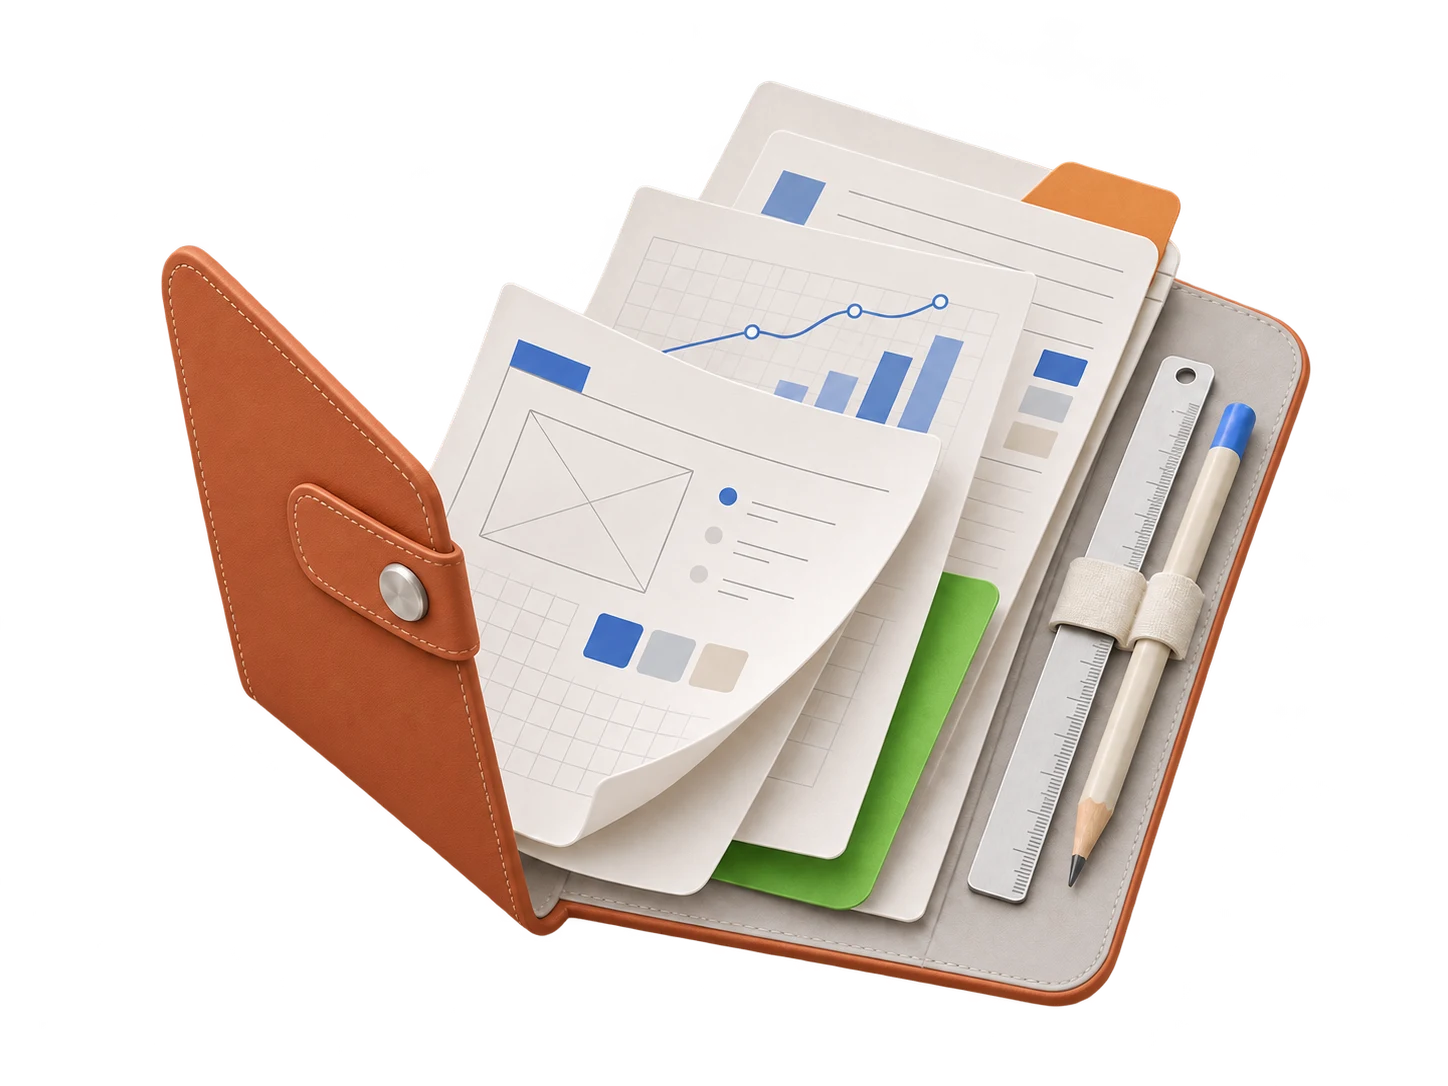
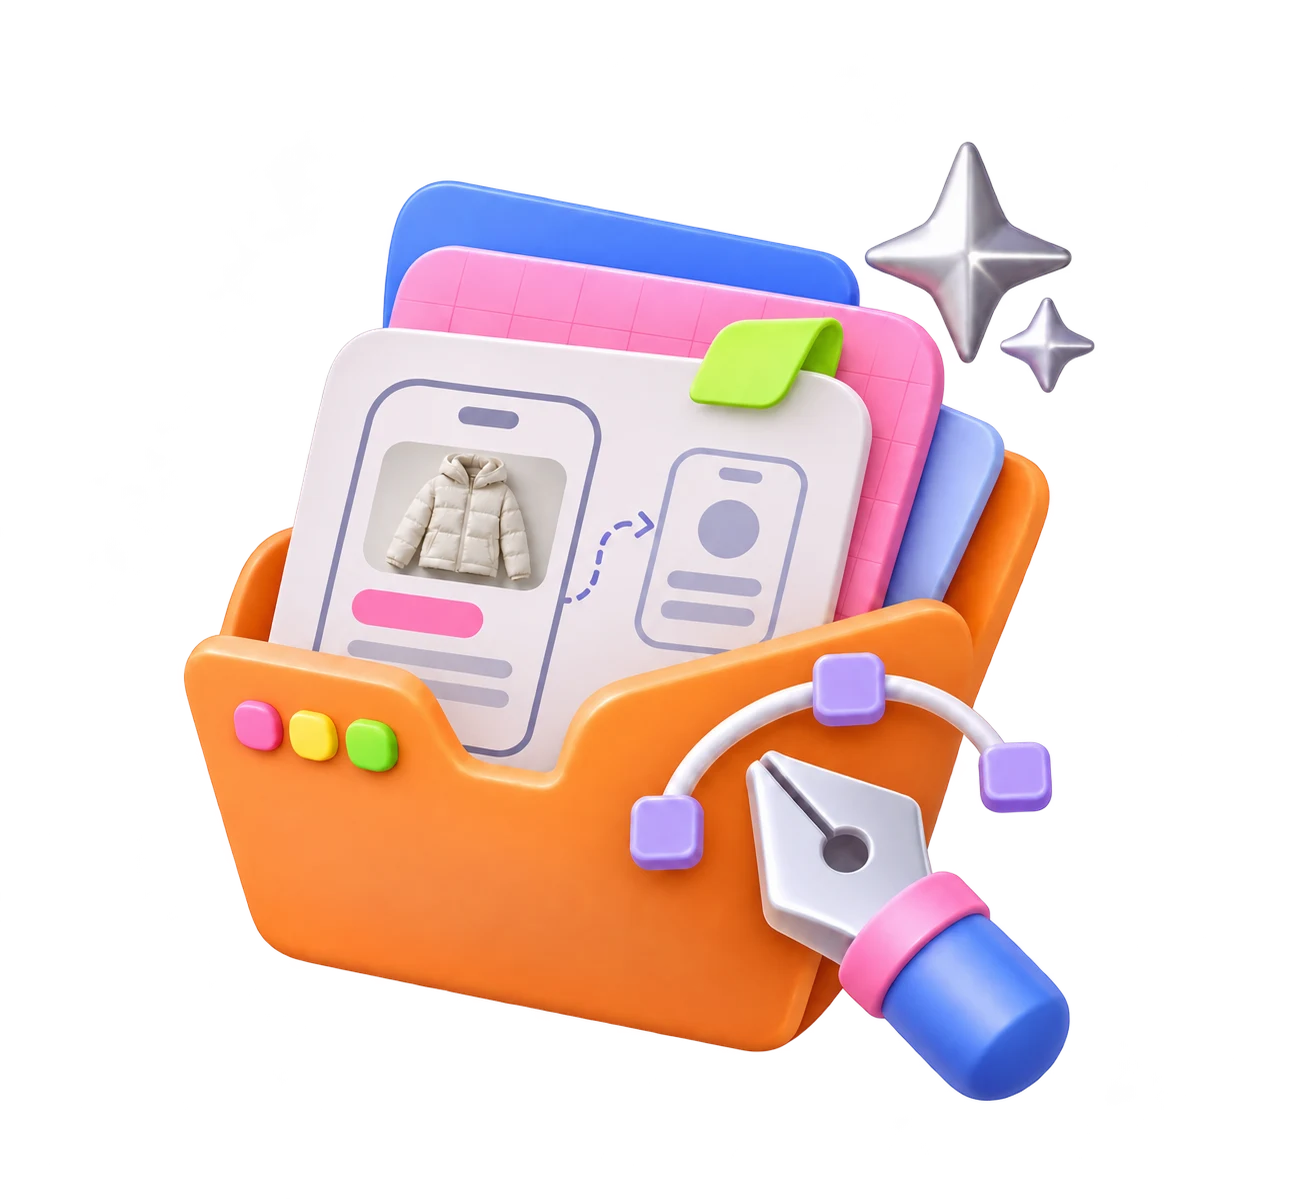
design(about): create illustrations from supplied references

diff --git a/client/src/components/AboutPage.tsx b/client/src/components/AboutPage.tsx
@@ -10,32 +10,32 @@ export default function AboutPage({ onNavigate }: AboutPageProps) {
   const copy = ru ? {
     eyebrow: 'СТУДИЯ WEB4TG', title: 'Приложения в Telegram',
     intro: 'Онлайн-магазины, запись на услуги и другие сервисы для вашего бизнеса.',
-    heroAlt: 'Творческий набор с макетом приложения',
+    heroAlt: 'Улыбающийся компьютер для создания приложений',
     order: 'Обсудить проект', explore: 'Узнать о студии',
     sectionLabel: 'ОТ ИДЕИ ДО ЗАПУСКА', sectionTitle: 'Продумано для людей',
     sectionText: 'Соединяем задачи бизнеса и удобство клиентов в одном приложении.',
     designLabel: '01 / ПРОЕКТИРОВАНИЕ', designTitle: 'Сначала — смысл',
     designText: 'Изучаем задачу и продумываем, как человек будет пользоваться приложением.',
-    designAlt: 'Портфолио с эскизами интерфейса',
+    designAlt: 'Папка с макетами интерфейса',
     launchLabel: '02 / РАЗРАБОТКА', launchTitle: 'Затем — в жизнь',
     launchText: 'Создаём интерфейс, собираем приложение и проверяем основные сценарии.',
-    launchAlt: 'Устройство с распечатанным чеком',
+    launchAlt: 'Устройство с экраном приложения и квитанцией',
     resultLabel: 'ДЛЯ ВАШЕГО БИЗНЕСА', resultTitle: 'Начнём с идеи',
     resultText: 'Магазин, запись или сервис — вместе найдём формат под вашу задачу.',
     examples: 'Посмотреть витрину', contact: 'Написать в Telegram',
   } : {
     eyebrow: 'WEB4TG STUDIO', title: 'Apps in Telegram',
     intro: 'Online stores, appointment booking and other services for your business.',
-    heroAlt: 'A creative kit with an app design',
+    heroAlt: 'A smiling computer for creating apps',
     order: 'Discuss a project', explore: 'Discover the studio',
     sectionLabel: 'FROM IDEA TO LAUNCH', sectionTitle: 'Designed for people',
     sectionText: 'We bring business needs and customer experience together in one app.',
     designLabel: '01 / DESIGN', designTitle: 'Start with purpose',
     designText: 'We explore your needs and design how people will use the app.',
-    designAlt: 'A portfolio of interface sketches',
+    designAlt: 'A folder of interface designs',
     launchLabel: '02 / DEVELOPMENT', launchTitle: 'Bring it to life',
     launchText: 'We build the interface and the app, then check the essential journeys.',
-    launchAlt: 'A device with a printed receipt',
+    launchAlt: 'A device with an app screen and receipt',
     resultLabel: 'FOR YOUR BUSINESS', resultTitle: 'Start with an idea',
     resultText: 'A store, booking or service — together we will find the right format.',
     examples: 'Explore the showcase', contact: 'Message us on Telegram',
@@ -53,7 +53,7 @@ export default function AboutPage({ onNavigate }: AboutPageProps) {
         <h1>{copy.title}</h1>
         <p>{copy.intro}</p>
         <div className="studio-about__hero-art">
-          <img src="/about-studio/hero.webp" alt={copy.heroAlt} fetchPriority="high" decoding="async" onError={event => { event.currentTarget.hidden = true; }}/>
+          <img src="/about-studio/hero.webp?v=retro-1" alt={copy.heroAlt} fetchPriority="high" decoding="async" onError={event => { event.currentTarget.hidden = true; }}/>
         </div>
         <button className="studio-about__primary" type="button" onClick={() => onNavigate('constructor')} data-testid="button-cta-constructor">{copy.order}<ArrowRight size={19} aria-hidden="true"/></button>
         <button className="studio-about__more" type="button" onClick={explore}>{copy.explore}<ArrowDown size={16} aria-hidden="true"/></button>
@@ -66,11 +66,11 @@ export default function AboutPage({ onNavigate }: AboutPageProps) {
         <div className="studio-about__features">
           <article className="studio-about__feature">
             <div className="studio-about__feature-copy"><span className="studio-about__eyebrow">{copy.designLabel}</span><h3>{copy.designTitle}</h3><p>{copy.designText}</p></div>
-            <img src="/about-studio/design.webp" alt={copy.designAlt} loading="lazy" decoding="async" onError={event => { event.currentTarget.hidden = true; }}/>
+            <img src="/about-studio/design.webp?v=objects-2" alt={copy.designAlt} loading="lazy" decoding="async" onError={event => { event.currentTarget.hidden = true; }}/>
           </article>
           <article className="studio-about__feature">
             <div className="studio-about__feature-copy"><span className="studio-about__eyebrow">{copy.launchLabel}</span><h3>{copy.launchTitle}</h3><p>{copy.launchText}</p></div>
-            <img src="/about-studio/launch.webp" alt={copy.launchAlt} loading="lazy" decoding="async" onError={event => { event.currentTarget.hidden = true; }}/>
+            <img src="/about-studio/launch.webp?v=objects-2" alt={copy.launchAlt} loading="lazy" decoding="async" onError={event => { event.currentTarget.hidden = true; }}/>
           </article>
         </div>
       </section>

diff --git a/client/src/components/AboutPage.css b/client/src/components/AboutPage.css
@@ -25,7 +25,7 @@
 .studio-about__feature .studio-about__eyebrow { font-size:10px; letter-spacing:.045em; }
 .studio-about__feature h3 { margin-top:10px; font-size:20px; line-height:1.08; font-weight:700; letter-spacing:-.04em; }
 .studio-about__feature p { margin-top:10px; color:#606973; font-size:13px; line-height:1.45; }
-.studio-about__feature img { display:block; width:100%; height:185px!important; object-fit:contain; transform:scale(1.25); }
+.studio-about__feature img { display:block; width:130%; max-width:none!important; height:185px!important; margin-left:-15%; object-fit:contain; }
 .studio-about__finish { margin-top:68px; padding:28px 22px; border-radius:24px; background:#f3f4f5; }
 .studio-about__finish .studio-about__primary { margin-top:23px; padding-inline:32px; }
 .studio-about__contact { display:flex; align-items:center; justify-content:center; gap:7px; min-height:48px; margin:6px auto -7px; color:#333a43; font-size:13px!important; font-weight:700!important; text-decoration:none; }

diff --git a/about-studio-design-notes.md b/about-studio-design-notes.md
@@ -6,4 +6,4 @@
 
 Уточнение пользователя: «Генерируешь иконки строго по реыепенсам изучи и делай так же». Три приложенных референса используются непосредственно при генерации новых иконок. Первый комплект по этим референсам пользователь отверг как «детский сад»; он сохранён в локальной дизайн-памяти как отклонённый. При повторном сравнении видны различия в толщине предметов, материальности, пропорциях и графических деталях. Чёрный фон примеров не переносится в светлый интерфейс.
 
-Тексты описывают реальные направления продукта, неподтверждённых чисел и обещаний нет. Кнопки ведут в оформление проекта, витрину и контакт студии. Визуальное решение ещё не оценено пользователем.
+Следующее уточнение пользователя: «Вот такие делай переделай все»; предоставлен новый референс с оранжевым экраном и окружающими предметами. Пользователь отдельно попросил передавать саму картинку в генератор. Исходный JPG непосредственно передан в imagegen как изображение-референс для первого экрана. Затем пользователь снова прислал три примера предметных иконок и попросил использовать именно их как визуальные референсы для остальных нужных иконок: эти три JPG переданы в imagegen при создании иконок проектирования и разработки. Тексты описывают реальные направления продукта, неподтверждённых чисел и обещаний нет. Кнопки ведут в оформление проекта, витрину и контакт студии. Визуальное решение ещё не оценено пользователем.

diff --git a/EDIT_LOG.md b/EDIT_LOG.md
@@ -956,6 +956,15 @@ build memory + a11y + CI auto-fix that empower the single agent.
 **Verification:** Inspected alpha on white and gray; reviewed the About page at 320 and 390 px in Chromium, with the image loaded, no horizontal overflow and no page errors. The new artwork has not yet been evaluated by the user.
 
 ---
+## 2026-11-07 · Regenerate About illustrations from user references
+
+**What:** Regenerated the first-screen scene and both feature illustrations, and adjusted image sizing and descriptions for the new artwork. Image URLs use a new version so browsers can retrieve updated assets.
+**Why:** The user supplied image references and explicitly requested that the actual images be passed to the image generator for each illustration.
+**Files:** `client/public/about-studio/hero.webp`, `design.webp`, `launch.webp`, `client/src/components/AboutPage.tsx`, `client/src/components/AboutPage.css`, `about-studio-design-notes.md`.
+**Checkpoint:** `9f89ffc`.
+**Verification:** Vite build passed; reviewed Chromium and WebKit at 320 and 390 px, plus English and desktop. Images loaded without visible clipping or text overlap, and order/showcase navigation worked. New artwork has not yet been evaluated by the user; not deployed.
+
+---
 <!-- Future entries appended ABOVE this line by the AI agent. Template:
 
 ## YYYY-MM-DD HH:MM · short description
